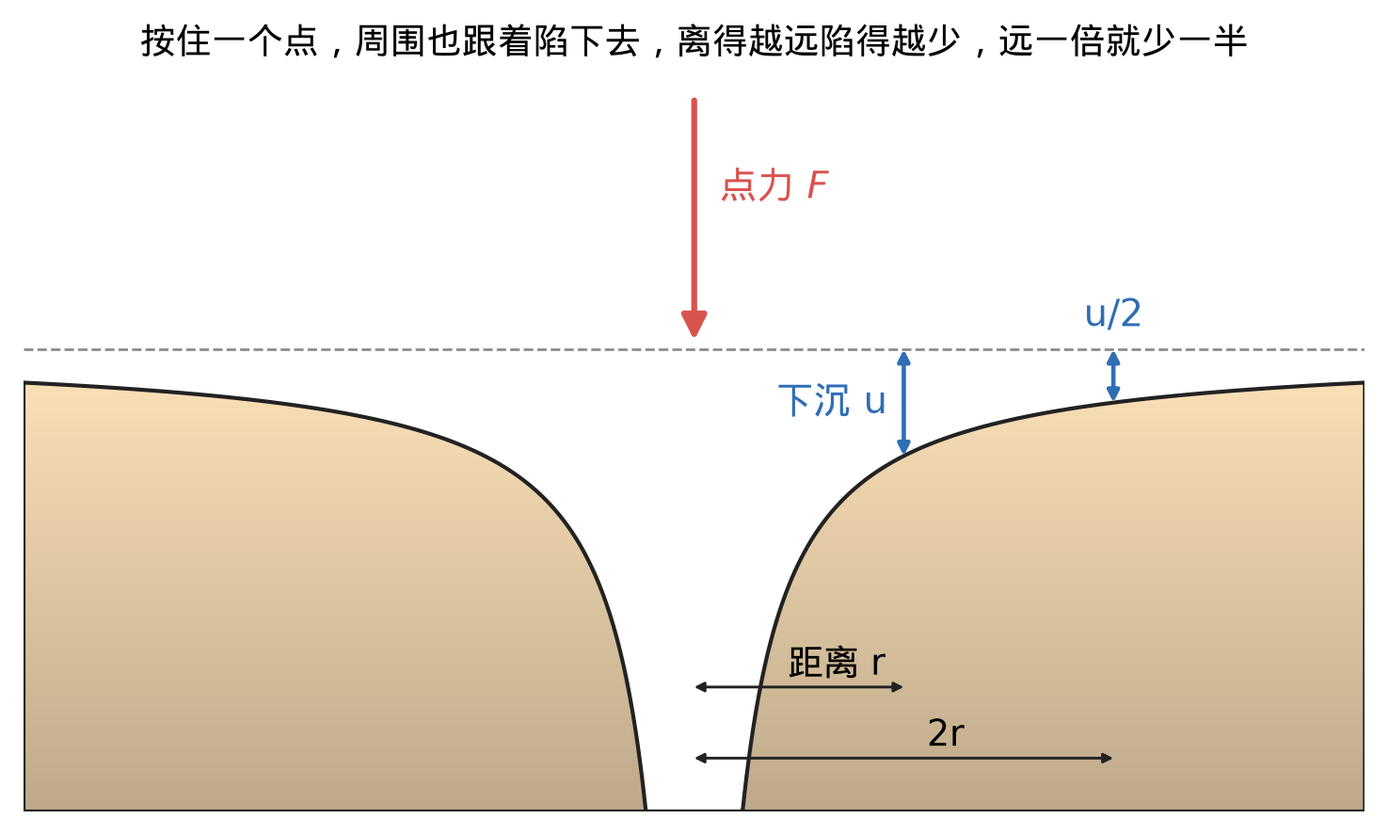
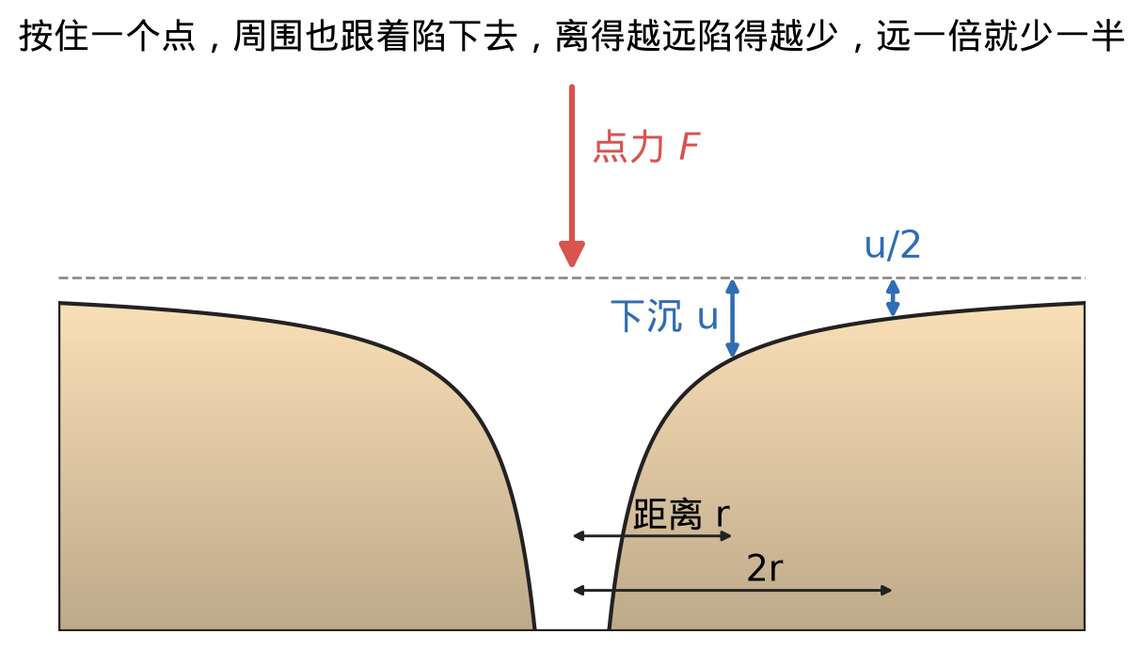
week3_4 2.1-2.3, 3.4: new formula format; concept figures re-rendered with larger text for their display size; fig09 counted as 2 panels

diff --git a/week3_4.html b/week3_4.html
@@ -118,7 +118,24 @@ footer.foot { color: var(--muted); font-size: 0.8rem; border-top: 1px solid var(
 
 <p>先说前提：接触区比物体小得多，在接触处看，两个物体都像无限大的平面（叫半空间）；变形很小；接触面没有摩擦。</p>
 <figure style="margin:12px 0"><img src="assets/images/w34_Contact_sphere-plane.jpg" style="width:599px;max-width:100%;height:auto" alt="这张图展示了弹性球压在弹性平面上时两者怎样变形。F 是把球往下压的力，上方水平虚线是平面原来的表面，弯下去的粗实线是压下去以后的表面，底部那条水平细线只用来量压深，球底部的虚线弧是球没变形时的轮廓，a 是接触半径，d 是压深。通过对比水平虚线和弯下去的粗实线，以及球底的虚实两条弧线，可以看出球和平面都被压扁了一点，而且接触圈以外的平面也被平滑地带着往下沉。" loading="lazy"><figcaption class="small">这张图展示了弹性球压在弹性平面上时两者怎样变形。F 是把球往下压的力，上方水平虚线是平面原来的表面，弯下去的粗实线是压下去以后的表面，底部那条水平细线只用来量压深，球底部的虚线弧是球没变形时的轮廓，a 是接触半径，d 是压深。通过对比水平虚线和弯下去的粗实线，以及球底的虚实两条弧线，可以看出球和平面都被压扁了一点，而且接触圈以外的平面也被平滑地带着往下沉。</figcaption></figure>
-<p><strong>第一步，两侧受同一个压力。</strong> 作用力等于反作用力，接触面上每一点 A 压 B 和 B 压 A 的压力一样大，记为 \(p(\mathbf x)\)。\(\mathbf x\) 是接触面上的位置，\(p\) 是这一点每单位面积受的力。</p>
+<p><b>① 两个软体 = 刚体压软平面</b></p>
+
+<p>已知：两物体的杨氏模量 \(E_A\)、\(E_B\) 与泊松比 \(\nu_A\)、\(\nu_B\)，两表面离切平面弯出的高度 \(f_A\)、\(f_B\)，压深 \(\delta\)；求：接触面上的压力 \(p\) 满足的方程。</p>
+
+<p>\[\begin{cases}\color{#c0392b}{p_{A\to B}(\mathbf x)=p_{B\to A}(\mathbf x)=p(\mathbf x)} &amp; \color{#c0392b}{(1)}\\[4pt] \color{#c0392b}{u_i(\mathbf x)=\dfrac{1}{E_i&#x27;}\cdot\dfrac1\pi\displaystyle\int\frac{p(\mathbf x&#x27;)}{|\mathbf x-\mathbf x&#x27;|}\,d\mathbf x&#x27;} &amp; \color{#c0392b}{(2)}\\[4pt] \color{#c0392b}{E_i&#x27;=\dfrac{E_i}{1-\nu_i^2}} &amp; \color{#c0392b}{(3)}\\[4pt] \color{#c0392b}{u_A+u_B=\delta-h(\mathbf x),\quad h=f_A+f_B} &amp; \color{#c0392b}{(4)}\end{cases}\ \color{#c0392b}{\Longrightarrow\ \frac{1}{E^*}\cdot\frac1\pi\int\frac{p}{|\mathbf x-\mathbf x&#x27;|}=\delta-h,\quad \frac1{E^*}=\frac1{E_A&#x27;}+\frac1{E_B&#x27;}}\]</p>
+<p>式 (1)：作用力等于反作用力，接触面上每一点 A 压 B 和 B 压 A 的压力一样大。</p>
+
+<p>式 (2)：Boussinesq 解，平面受压力时表面下沉；按一张蹦床的一个点，周围一圈都跟着陷下去，离得越近陷得越多，与距离成反比；两侧积分那部分完全一样，区别只在材料系数（Popov、Heß、Willert 2019 手册 §2.2 式 (2.2) 点力解与式 (2.3) 叠加）。</p>
+
+<p>式 (3)：把侧面鼓出也算进去后的有效硬度（同上 §2.2 式 (2.1)）。</p>
+
+<p>式 (4)：贴合条件，不变形时推近 \(\delta\) 后每处会穿进去的量，由两边各自凹下去让出来；缝隙是两边弯出去的高度之和（同上 §2.2 式 (2.4)）。</p>
+
+<p>结果：把 (2)(3) 代入 (4)，两侧的系数合成一个合成模量 \(E^*\)。这个方程和「一个形状为 \(h\) 的刚体，压一块硬度为 \(E^*\) 的平面」完全一样，所以答案只取决于缝隙和合成模量（同上 §2.2 开头）。两侧软度直接相加，就像两根弹簧串起来，总的软度是两根之和；不管哪边软，只要合起来一样软，结果就一样。</p>
+
+<figure style="margin:12px 0"><img src="assets/images/w34_fig03_boussinesq_1_over_r.png" style="width:557px;max-width:100%;height:auto" alt="这张图展示了在表面按一个点时周围陷下去多少。红色箭头是压在表面上的点力 F，灰色虚线是表面原来的位置，橙色块的上边缘是压下去以后的表面。通过对比距离 r 处的蓝色箭头「下沉 u」和距离 2r 处的蓝色箭头 u/2，可以看出下沉与距离成反比，远一倍只沉一半，第 5 节里两个接触区互相影响用的就是这条规律。" loading="lazy"><figcaption class="small">这张图展示了在表面按一个点时周围陷下去多少。红色箭头是压在表面上的点力 F，灰色虚线是表面原来的位置，橙色块的上边缘是压下去以后的表面。通过对比距离 r 处的蓝色箭头「下沉 u」和距离 2r 处的蓝色箭头 u/2，可以看出下沉与距离成反比，远一倍只沉一半，第 5 节里两个接触区互相影响用的就是这条规律。</figcaption></figure>
+<figure style="margin:12px 0"><img src="assets/images/w34_fig02_two_soft_equals_rigid_flat.png" style="width:857px;max-width:100%;height:auto" alt="这张图展示了两个软体相碰可以换成一个刚体压一块软平面。左边橙色软体 A 和绿色软体 B 在灰色虚线（两者的公共切面）处相碰，红色箭头 f_A、f_B 是各自表面离切面弯出去的高度，两个软体的软度分别是 1/E_A′ 和 1/E_B′（E′ 是有效硬度）。右边灰色刚体与橙色软平面之间的红色箭头是缝隙 h。通过对比左边的 f_A、f_B 和右边的 h = f_A + f_B，以及左边两个软度和右边蓝字的 1/E* = 1/E_A′ + 1/E_B′，可以看出缝隙相加、软度也相加，E* 就是两边合起来的硬度，所以只要合起来的缝隙和硬度相同，结果就相同。" loading="lazy"><figcaption class="small">这张图展示了两个软体相碰可以换成一个刚体压一块软平面。左边橙色软体 A 和绿色软体 B 在灰色虚线（两者的公共切面）处相碰，红色箭头 f_A、f_B 是各自表面离切面弯出去的高度，两个软体的软度分别是 1/E_A′ 和 1/E_B′（E′ 是有效硬度）。右边灰色刚体与橙色软平面之间的红色箭头是缝隙 h。通过对比左边的 f_A、f_B 和右边的 h = f_A + f_B，以及左边两个软度和右边蓝字的 1/E* = 1/E_A′ + 1/E_B′，可以看出缝隙相加、软度也相加，E* 就是两边合起来的硬度，所以只要合起来的缝隙和硬度相同，结果就相同。</figcaption></figure>
+<details><summary>推导</summary><p><strong>第一步，两侧受同一个压力。</strong> 作用力等于反作用力，接触面上每一点 A 压 B 和 B 压 A 的压力一样大，记为 \(p(\mathbf x)\)。\(\mathbf x\) 是接触面上的位置，\(p\) 是这一点每单位面积受的力。</p>
 <p><strong>第二步，每一侧陷下去多少由压力决定，而且规则一样。</strong> 弹性力学的 Boussinesq 解给出，平面受压力 \(p\) 时表面下沉</p>
 <p>\[u_i(\mathbf x)=\frac{1}{E_i&#x27;}\cdot\frac1\pi\int\frac{p(\mathbf x&#x27;)}{|\mathbf x-\mathbf x&#x27;|}\,d\mathbf x&#x27;,\qquad E_i&#x27;=\frac{E_i}{1-\nu_i^2}.\]</p>
 <ul>
@@ -130,7 +147,6 @@ footer.foot { color: var(--muted); font-size: 0.8rem; border-top: 1px solid var(
 <li>\(E_i&#x27;\)：把侧面鼓出也算进去后的有效硬度。</li>
 </ul>
 <p>直观理解：积分号里是「每一点的压力，除以它到这里的距离」再加起来。按一张蹦床的一个点，周围一圈都跟着陷下去，离得越近陷得越多，按 \(1/\text{距离}\) 递减。前面的 \(1/E_i&#x27;\) 表示材料越软，陷得越深。两侧积分那部分完全一样，区别只在材料系数。</p>
-<figure style="margin:12px 0"><img src="assets/images/w34_fig03_boussinesq_1_over_r.png" style="width:542px;max-width:100%;height:auto" alt="这张图展示了在表面按一个点时周围陷下去多少。红色箭头是压在表面上的点力 F，灰色虚线是表面原来的位置，橙色块的上边缘是压下去以后的表面。通过对比距离 r 处的蓝色箭头「下沉 u」和距离 2r 处的蓝色箭头 u/2，可以看出下沉与距离成反比，远一倍只沉一半，第 5 节里两个接触区互相影响用的就是这条规律。" loading="lazy"><figcaption class="small">这张图展示了在表面按一个点时周围陷下去多少。红色箭头是压在表面上的点力 F，灰色虚线是表面原来的位置，橙色块的上边缘是压下去以后的表面。通过对比距离 r 处的蓝色箭头「下沉 u」和距离 2r 处的蓝色箭头 u/2，可以看出下沉与距离成反比，远一倍只沉一半，第 5 节里两个接触区互相影响用的就是这条规律。</figcaption></figure>
 <p><strong>第三步，写出贴合条件。</strong></p>
 <p>\[u_A+u_B=\delta-h(\mathbf x),\qquad h=f_A+f_B.\]</p>
 <ul>
@@ -145,12 +161,41 @@ footer.foot { color: var(--muted); font-size: 0.8rem; border-top: 1px solid var(
 <li>\(E^*\)：合成模量，两侧合起来的有效硬度。</li>
 </ul>
 <p>这个方程和「一个形状为 \(h\) 的刚体，压一块硬度为 \(E^*\) 的平面」完全一样。所以答案只取决于缝隙 \(h\) 和合成模量 \(E^*\)。</p>
-<p>直观理解：\(1/E\) 代表「软的程度」，两侧的软度直接相加，就像两根弹簧串起来，总的软度是两根之和。不管哪边软，只要合起来一样软，结果就一样；形状也只看两边加起来的缝隙。</p>
-<figure style="margin:12px 0"><img src="assets/images/w34_fig02_two_soft_equals_rigid_flat.png" style="width:857px;max-width:100%;height:auto" alt="这张图展示了两个软体相碰可以换成一个刚体压一块软平面。左边橙色软体 A 和绿色软体 B 在灰色虚线（两者的公共切面）处相碰，红色箭头 f_A、f_B 是各自表面离切面弯出去的高度，两个软体的软度分别是 1/E_A′ 和 1/E_B′（E′ 是有效硬度）。右边灰色刚体与橙色软平面之间的红色箭头是缝隙 h。通过对比左边的 f_A、f_B 和右边的 h = f_A + f_B，以及左边两个软度和右边蓝字的 1/E* = 1/E_A′ + 1/E_B′，可以看出缝隙相加、软度也相加，E* 就是两边合起来的硬度，所以只要合起来的缝隙和硬度相同，结果就相同。" loading="lazy"><figcaption class="small">这张图展示了两个软体相碰可以换成一个刚体压一块软平面。左边橙色软体 A 和绿色软体 B 在灰色虚线（两者的公共切面）处相碰，红色箭头 f_A、f_B 是各自表面离切面弯出去的高度，两个软体的软度分别是 1/E_A′ 和 1/E_B′（E′ 是有效硬度）。右边灰色刚体与橙色软平面之间的红色箭头是缝隙 h。通过对比左边的 f_A、f_B 和右边的 h = f_A + f_B，以及左边两个软度和右边蓝字的 1/E* = 1/E_A′ + 1/E_B′，可以看出缝隙相加、软度也相加，E* 就是两边合起来的硬度，所以只要合起来的缝隙和硬度相同，结果就相同。</figcaption></figure>
+<p>直观理解：\(1/E\) 代表「软的程度」，两侧的软度直接相加，就像两根弹簧串起来，总的软度是两根之和。不管哪边软，只要合起来一样软，结果就一样；形状也只看两边加起来的缝隙。</p></details>
 <p>这个等价关系（Popov、Heß 和 Willert 2019 年的接触力学手册第 2.2 节）只在线弹性、小变形、两侧都近似半空间（表面坡度远小于 1）、无摩擦时成立。球、椭圆、幂律以及任意轴对称的缝隙都能直接用；平底这类带尖边的压头、接触半径相对曲率半径不够小、物体厚度有限、几个接触区互相影响时，都不能直接用，要另外处理。</p>
 <h3>降维法：三维接触化成一排一维弹簧</h3>
 
-<p>Popov 的降维法证明，轴对称的接触可以精确换成一排互不相干的一维弹簧，压在一条等效轮廓上：</p>
+<p><b>① 一排一维弹簧给出力与能量</b></p>
+
+<p>已知：轴对称缝隙 \(h(r)\)、合成模量 \(E^*\)、压深 \(d\)；求：接触半径 \(a\)、总力 \(F\)、总能量 \(U_0\)。</p>
+
+<p>\[\begin{cases}\color{#c0392b}{g(x)=|x|\displaystyle\int_0^{|x|}\frac{h&#x27;(r)}{\sqrt{x^2-r^2}}\,dr} &amp; \color{#c0392b}{(1)}\\[4pt] \color{#c0392b}{\Delta k=E^*\,\Delta x} &amp; \color{#c0392b}{(2)}\\[4pt] \color{#c0392b}{w(x)=d-g(x)} &amp; \color{#c0392b}{(3)}\\[4pt] \color{#c0392b}{g(a)=d} &amp; \color{#c0392b}{(4)}\\[4pt] \color{#c0392b}{U_{\text{弹簧}}=\tfrac12\,\Delta k\,w^2} &amp; \color{#c0392b}{(5)}\end{cases}\ \color{#c0392b}{\Longrightarrow\ F=E^*\int_{-a}^{a}\big(d-g(x)\big)dx,\quad U_0=\frac{E^*}{2}\int_{-a}^{a}\big(d-g(x)\big)^2dx}\]</p>
+<p>式 (1)：等效轮廓，把三维缝隙形状「变换」成一排弹簧离开平面的高度；三维里各点互相牵连的效果已经被这个变换吸收，弹簧之间互不影响（Popov、Heß、Willert 2019 手册 §2.3.1 式 (2.6)）。</p>
+
+<p>式 (2)：每根弹簧的刚度，越宽越硬，材料越硬越硬（同上 §2.3.1 式 (2.5)）。</p>
+
+<p>式 (3)：第 \(x\) 根弹簧的压缩量 = 压深减去它的高度（同上 §2.3.2 式 (2.8)）。</p>
+
+<p>式 (4)：接触边缘处压缩量为 0，由此定出接触半径（同上 §2.3.2 式 (2.9)）。</p>
+
+<p>式 (5)：每根弹簧的能量是 ½ × 刚度 × 压缩量的平方。</p>
+
+<p>结果：所有弹簧的力相加得总力（同上 §2.3.2 式 (2.11)），能量相加得总能量，与原来的三维问题完全相同。压得越深 → 接触越宽、每根压得越多，力和能量都越大。</p>
+
+<figure style="margin:12px 0"><img src="assets/images/w34_fig04_mdr_springs.png" style="width:908px;max-width:100%;height:auto" alt="这张图展示了降维法怎样把三维接触换成一排一维弹簧。左边灰色刚体压橙色平面，两者之间的缝隙是 h(r)，平面里各点的变形互相牵连。右边把缝隙换成灰色的等效轮廓 g(x) = x²/R（R 是球的半径），压进一排弹簧，灰色虚线是弹簧没压时的顶端，红色箭头是压深 d。通过对比两条红色点线之间被压短的蓝色弹簧和点线外不受力的灰色弹簧，可以看出红色点线的位置就是接触边缘 a，满足 g(a) = d。每根弹簧只管自己那一格，所以三维里各点互相牵连的问题变成了一维的逐根相加。" loading="lazy"><figcaption class="small">这张图展示了降维法怎样把三维接触换成一排一维弹簧。左边灰色刚体压橙色平面，两者之间的缝隙是 h(r)，平面里各点的变形互相牵连。右边把缝隙换成灰色的等效轮廓 g(x) = x²/R（R 是球的半径），压进一排弹簧，灰色虚线是弹簧没压时的顶端，红色箭头是压深 d。通过对比两条红色点线之间被压短的蓝色弹簧和点线外不受力的灰色弹簧，可以看出红色点线的位置就是接触边缘 a，满足 g(a) = d。每根弹簧只管自己那一格，所以三维里各点互相牵连的问题变成了一维的逐根相加。</figcaption></figure>
+<figure style="margin:12px 0"><img src="assets/images/w34_WikipediabilderKap_4.jpg" style="width:1184px;max-width:100%;height:auto" alt="这张图是降维法原作者的示意图。左边是半径 R 的灰色球在力 F 下压进弹性平面，a 是接触半径，d 是压深；箭头右边是换成的一维模型，一个半径 R1 的灰色轮廓在同样的力 F 下压进一排竖直弹簧，R1 = R/2，也就是等效轮廓 g(x) = x²/R。通过对比左右两边标出的 a 和 d，可以看出换成一排各压各的弹簧后，力、接触半径、压深都与三维问题相同，所以能用一维弹簧算三维接触。" loading="lazy"><figcaption class="small">这张图是降维法原作者的示意图。左边是半径 R 的灰色球在力 F 下压进弹性平面，a 是接触半径，d 是压深；箭头右边是换成的一维模型，一个半径 R1 的灰色轮廓在同样的力 F 下压进一排竖直弹簧，R1 = R/2，也就是等效轮廓 g(x) = x²/R。通过对比左右两边标出的 a 和 d，可以看出换成一排各压各的弹簧后，力、接触半径、压深都与三维问题相同，所以能用一维弹簧算三维接触。</figcaption></figure>
+<p><b>② 力是能量的导数，越压越硬</b></p>
+
+<p>已知：① 的总力与总能量；求：能量对压深、力对压深的变化率。</p>
+
+<p>\[\begin{cases}\color{#c0392b}{U_0=\dfrac{E^*}{2}\displaystyle\int_{-a}^{a}\big(d-g\big)^2dx} &amp; \color{#c0392b}{(1)}\\[4pt] \color{#c0392b}{F=E^*\displaystyle\int_{-a}^{a}\big(d-g\big)dx} &amp; \color{#c0392b}{(2)}\\[4pt] \color{#c0392b}{d-g(\pm a)=0} &amp; \color{#c0392b}{(3)}\end{cases}\ \color{#c0392b}{\Longrightarrow\ \frac{dU_0}{dd}=F,\quad \frac{dF}{dd}=2aE^*}\]</p>
+<p>式 (1)(2)：① 的结果。</p>
+
+<p>式 (3)：① 式 (4)，被积函数在积分上下限处为 0。</p>
+
+<p>结果：对压深求导，由 (3) 边界上的项消失。前者说明力就是能量对压深的导数；后者说明压得越深越硬，因为接触区越来越宽，参与受力的弹簧越来越多。</p>
+
+<details><summary>推导</summary><p>Popov 的降维法证明，轴对称的接触可以精确换成一排互不相干的一维弹簧，压在一条等效轮廓上：</p>
 <p>\[g(x)=|x|\int_0^{|x|}\frac{h&#x27;(r)}{\sqrt{x^2-r^2}}\,dr.\]</p>
 <ul>
 <li>\(x\)：这排弹簧所在直线上的坐标，原点在接触中心。</li>
@@ -159,8 +204,6 @@ footer.foot { color: var(--muted); font-size: 0.8rem; border-top: 1px solid var(
 <li>\(g(x)\)：等效轮廓，第 \(x\) 根弹簧离开平面的高度。</li>
 </ul>
 <p>直观理解：三维接触里各点互相牵连，不好算。降维法先把缝隙形状「变换」一下，变成 \(g(x)\)，然后这排一维弹簧就可以各压各的、互不影响，算出的力和能量与原来的三维问题完全相同。牵连的效果已经被这个变换吸收了。</p>
-<figure style="margin:12px 0"><img src="assets/images/w34_fig04_mdr_springs.png" style="width:908px;max-width:100%;height:auto" alt="这张图展示了降维法怎样把三维接触换成一排一维弹簧。左边灰色刚体压橙色平面，两者之间的缝隙是 h(r)，平面里各点的变形互相牵连。右边把缝隙换成灰色的等效轮廓 g(x) = x²/R（R 是球的半径），压进一排弹簧，灰色虚线是弹簧没压时的顶端，红色箭头是压深 d。通过对比两条红色点线之间被压短的蓝色弹簧和点线外不受力的灰色弹簧，可以看出红色点线的位置就是接触边缘 a，满足 g(a) = d。每根弹簧只管自己那一格，所以三维里各点互相牵连的问题变成了一维的逐根相加。" loading="lazy"><figcaption class="small">这张图展示了降维法怎样把三维接触换成一排一维弹簧。左边灰色刚体压橙色平面，两者之间的缝隙是 h(r)，平面里各点的变形互相牵连。右边把缝隙换成灰色的等效轮廓 g(x) = x²/R（R 是球的半径），压进一排弹簧，灰色虚线是弹簧没压时的顶端，红色箭头是压深 d。通过对比两条红色点线之间被压短的蓝色弹簧和点线外不受力的灰色弹簧，可以看出红色点线的位置就是接触边缘 a，满足 g(a) = d。每根弹簧只管自己那一格，所以三维里各点互相牵连的问题变成了一维的逐根相加。</figcaption></figure>
-<figure style="margin:12px 0"><img src="assets/images/w34_WikipediabilderKap_4.jpg" style="width:1184px;max-width:100%;height:auto" alt="这张图是降维法原作者的示意图。左边是半径 R 的灰色球在力 F 下压进弹性平面，a 是接触半径，d 是压深；箭头右边是换成的一维模型，一个半径 R1 的灰色轮廓在同样的力 F 下压进一排竖直弹簧，R1 = R/2，也就是等效轮廓 g(x) = x²/R。通过对比左右两边标出的 a 和 d，可以看出换成一排各压各的弹簧后，力、接触半径、压深都与三维问题相同，所以能用一维弹簧算三维接触。" loading="lazy"><figcaption class="small">这张图是降维法原作者的示意图。左边是半径 R 的灰色球在力 F 下压进弹性平面，a 是接触半径，d 是压深；箭头右边是换成的一维模型，一个半径 R1 的灰色轮廓在同样的力 F 下压进一排竖直弹簧，R1 = R/2，也就是等效轮廓 g(x) = x²/R。通过对比左右两边标出的 a 和 d，可以看出换成一排各压各的弹簧后，力、接触半径、压深都与三维问题相同，所以能用一维弹簧算三维接触。</figcaption></figure>
 <p>每根弹簧宽 \(\Delta x\)、刚度 \(E^*\Delta x\)（越宽越硬，材料越硬越硬）。压深为 \(d\) 时，第 \(x\) 根被压缩 \(d-g(x)\)。压缩量为 0 的地方就是接触边缘，记为 \(a\)，满足 \(g(a)=d\)。总力和总能量是所有弹簧加起来：</p>
 <p>\[F=E^*\int_{-a}^{a}\big(d-g(x)\big)dx,\qquad U_0=\frac{E^*}{2}\int_{-a}^{a}\big(d-g(x)\big)^2dx.\]</p>
 <ul>
@@ -169,18 +212,44 @@ footer.foot { color: var(--muted); font-size: 0.8rem; border-top: 1px solid var(
 <li>\(F\)：总接触力。</li>
 <li>\(U_0\)：总能量，每根弹簧的能量是 \(\tfrac12\times\)刚度\(\times\)压缩量\(^2\)。</li>
 </ul>
-<p>两个推论：对 \(d\) 求导，被积函数在 \(\pm a\) 处正好为 0，边界上的项消失，得到 \(dU_0/dd=F\) 和 \(dF/dd=2aE^*\)。前者说明力就是能量对压深的导数；后者说明压得越深越硬，因为接触区 \(a\) 越来越宽，参与受力的弹簧越来越多。</p>
+<p>两个推论：对 \(d\) 求导，被积函数在 \(\pm a\) 处正好为 0，边界上的项消失，得到 \(dU_0/dd=F\) 和 \(dF/dd=2aE^*\)。前者说明力就是能量对压深的导数；后者说明压得越深越硬，因为接触区 \(a\) 越来越宽，参与受力的弹簧越来越多。</p></details>
 <h3>用它推出 Hertz</h3>
 
-<p>球的缝隙是 \(h=r^2/(2R)\)，\(R\) 是合成半径，\(1/R=1/R_A+1/R_B\)（两边曲率相加，道理和软度相加一样）。代入等效轮廓，\(h&#x27;(r)=r/R\)：</p>
+<p><b>① 球：Hertz 解</b></p>
+
+<p>已知：两球半径 \(R_A\)、\(R_B\)，合成模量 \(E^*\)，压深 \(d\)；求：接触半径 \(a\)、力 \(F\)、能量 \(U_H\)。</p>
+
+<p>\[\begin{cases}\color{#c0392b}{h=\dfrac{r^2}{2R},\quad \dfrac1R=\dfrac1{R_A}+\dfrac1{R_B}} &amp; \color{#c0392b}{(1)}\\[4pt] \color{#c0392b}{g(x)=|x|\displaystyle\int_0^{|x|}\frac{h&#x27;(r)}{\sqrt{x^2-r^2}}\,dr} &amp; \color{#c0392b}{(2)}\\[4pt] \color{#c0392b}{g(a)=d,\quad F=E^*\displaystyle\int_{-a}^{a}\big(d-g\big)dx,\quad \frac{dU}{dd}=F} &amp; \color{#c0392b}{(3)}\end{cases}\ \color{#c0392b}{\Longrightarrow\ g=\frac{x^2}{R},\ a^2=Rd,\ F=\frac43E^*\sqrt R\,d^{3/2},\ U_H=\frac{8}{15}E^*\sqrt R\,d^{5/2}}\]</p>
+<p>式 (1)：球在接触处的缝隙是抛物线，两边曲率相加，道理和软度相加一样（Popov、Heß、Willert 2019 手册 §2.5.3 式 (2.28)）。</p>
+
+<p>式 (2)：降维法的等效轮廓（上一节 ① 式 (1)）。</p>
+
+<p>式 (3)：降维法的接触边缘条件、总力，以及力是能量的导数（上一节 ①②）。</p>
+
+<p>结果：把 (1) 代入 (2) 得等效轮廓，由边缘条件得接触半径，代入总力，再对压深积分得能量（等效轮廓、接触半径与力同手册 §2.5.3 式 (2.29)）。压得越深 → 接触圈越大但只按平方根变大；能量按压深的 2.5 次方涨，因为每处压得更深，接触圈又同时变宽，两件事叠在一起；大球接触圈更宽，所以更「硬」，但只按开方变化。</p>
+
+<p><b>② 幂律形状</b></p>
+
+<p>已知：缝隙按半径的 \(n\) 次方变化，\(c\) 是系数；求：能量随压深的幂次。</p>
+
+<p>\[\begin{cases}\color{#c0392b}{h=c\,r^n} &amp; \color{#c0392b}{(1)}\\[4pt] \color{#c0392b}{g\propto|x|^n,\quad d\propto a^n} &amp; \color{#c0392b}{(2)}\\[4pt] \color{#c0392b}{U_0\propto d^2a} &amp; \color{#c0392b}{(3)}\end{cases}\ \color{#c0392b}{\Longrightarrow\ U_0\propto d^{(2n+1)/n}}\]</p>
+<p>式 (1)：幂律缝隙，\(n\) 越大越平、越小越尖。</p>
+
+<p>式 (2)：代入等效轮廓与边缘条件（上一节 ① 式 (1)(4)）。</p>
+
+<p>式 (3)：上一节 ① 的能量积分，被积函数量级为压深的平方、积分宽度为接触半径。</p>
+
+<p>结果：由 (2) 把接触半径换成压深。球（\(n=2\)）是 2.5 次方，圆锥（\(n=1\)）是 3 次方，平底（\(n\to\infty\)）是 2 次方。压头越尖 → 能量随压深涨得越快，因为接触面积随压深涨得越快。</p>
+
+<figure style="margin:12px 0"><img src="assets/images/w34_fig05_power_law.png" style="width:548px;max-width:100%;height:auto" alt="这张图展示了压头形状怎样决定能量随压深涨得多快。横轴是压深，纵轴是能量，都取对数，所以每条线的斜率就是能量随压深的幂次，右边的小图标画的是对应的压头形状。通过对比红色圆锥线、蓝色球线、绿色平底线的倾斜程度，可以看出圆锥最陡（斜率 3），球居中（2.5），平底最缓（2），因为压头越尖，压深加大时接触面积涨得越快，能量也涨得越快。三条线的高低没有意义，只比斜率。" loading="lazy"><figcaption class="small">这张图展示了压头形状怎样决定能量随压深涨得多快。横轴是压深，纵轴是能量，都取对数，所以每条线的斜率就是能量随压深的幂次，右边的小图标画的是对应的压头形状。通过对比红色圆锥线、蓝色球线、绿色平底线的倾斜程度，可以看出圆锥最陡（斜率 3），球居中（2.5），平底最缓（2），因为压头越尖，压深加大时接触面积涨得越快，能量也涨得越快。三条线的高低没有意义，只比斜率。</figcaption></figure>
+<details><summary>推导</summary><p>球的缝隙是 \(h=r^2/(2R)\)，\(R\) 是合成半径，\(1/R=1/R_A+1/R_B\)（两边曲率相加，道理和软度相加一样）。代入等效轮廓，\(h&#x27;(r)=r/R\)：</p>
 <p>\[g(x)=|x|\int_0^{|x|}\frac{r/R}{\sqrt{x^2-r^2}}dr=\frac{|x|}{R}\Big[-\sqrt{x^2-r^2}\Big]_0^{|x|}=\frac{x^2}{R}.\]</p>
 <p>由 \(g(a)=d\) 得 \(a^2=Rd\)：压得越深，接触圈越大，但只按平方根变大。代入力的公式：</p>
 <p>\[F=E^*\Big(2ad-\frac{2a^3}{3R}\Big)=\frac43E^*\sqrt R\,d^{3/2}.\]</p>
 <p>对 \(d\) 积分得能量：</p>
 <p>\[U_H=\frac{8}{15}E^*\sqrt R\,d^{5/2}.\]</p>
 <p>直观理解：能量按压深的 2.5 次方涨，因为压深加大时，每处压得更深，接触圈又同时变宽，两件事叠在一起。能量和 \(\sqrt R\) 成正比：大球接触圈更宽，所以更「硬」，但只按开方变化。</p>
-<p>换成别的形状，缝隙 \(h=c\,r^n\)（\(c\) 是系数，\(n\) 越大越平、越小越尖），则 \(g\propto|x|^n\)，\(d\propto a^n\)，能量 \(U_0\propto d^2a\propto d^{(2n+1)/n}\)。球（\(n=2\)）是 2.5 次方，圆锥（\(n=1\)）是 3 次方，平底（\(n\to\infty\)）是 2 次方。直观上，压头越尖，接触面积随压深涨得越快，能量也涨得越快。</p>
-<figure style="margin:12px 0"><img src="assets/images/w34_fig05_power_law.png" style="width:542px;max-width:100%;height:auto" alt="这张图展示了压头形状怎样决定能量随压深涨得多快。横轴是压深，纵轴是能量，都取对数，所以每条线的斜率就是能量随压深的幂次，右边的小图标画的是对应的压头形状。通过对比红色圆锥线、蓝色球线、绿色平底线的倾斜程度，可以看出圆锥最陡（斜率 3），球居中（2.5），平底最缓（2），因为压头越尖，压深加大时接触面积涨得越快，能量也涨得越快。三条线的高低没有意义，只比斜率。" loading="lazy"><figcaption class="small">这张图展示了压头形状怎样决定能量随压深涨得多快。横轴是压深，纵轴是能量，都取对数，所以每条线的斜率就是能量随压深的幂次，右边的小图标画的是对应的压头形状。通过对比红色圆锥线、蓝色球线、绿色平底线的倾斜程度，可以看出圆锥最陡（斜率 3），球居中（2.5），平底最缓（2），因为压头越尖，压深加大时接触面积涨得越快，能量也涨得越快。三条线的高低没有意义，只比斜率。</figcaption></figure></section>
+<p>换成别的形状，缝隙 \(h=c\,r^n\)（\(c\) 是系数，\(n\) 越大越平、越小越尖），则 \(g\propto|x|^n\)，\(d\propto a^n\)，能量 \(U_0\propto d^2a\propto d^{(2n+1)/n}\)。球（\(n=2\)）是 2.5 次方，圆锥（\(n=1\)）是 3 次方，平底（\(n\to\infty\)）是 2 次方。直观上，压头越尖，接触面积随压深涨得越快，能量也涨得越快。</p></details></section>
 <section id="w3"><h2>标签对不对</h2>
 <h3>和解析解比</h3>
 
@@ -261,14 +330,34 @@ footer.foot { color: var(--muted); font-size: 0.8rem; border-top: 1px solid var(
 <figure style="margin:12px 0"><img src="assets/images/w34_s3_3_accept.png" style="width:626px;max-width:100%;height:auto" alt="这张图展示了软压头带来的偏差在接触区趋于无限小时消失，三组都回到 1 附近，最多差 0.55%。3.3 节的四组里，压头几乎刚性的那组（1e8 / 1e5）当分母，其余三组都除以它，所以图上只有三条线。蓝、橙、红三组依次是压头稍软、一样软、软压头压硬块（压头和块的模量同上面那张「标签 ÷ Hertz」曲线图），圆点是各压深下「软压头标签 ÷ 近刚压头标签」，最右端低 0.4% 到 3.4%；虚线是对圆点拟合的直线，延长到 Hertz 假设严格成立的 a/R = 0，三颗星落在 0.9989、0.9945、0.9956，都在浅绿色 ±1% 带里，所以按事先定的判据三组都通过。" loading="lazy"><figcaption class="small">这张图展示了软压头带来的偏差在接触区趋于无限小时消失，三组都回到 1 附近，最多差 0.55%。3.3 节的四组里，压头几乎刚性的那组（1e8 / 1e5）当分母，其余三组都除以它，所以图上只有三条线。蓝、橙、红三组依次是压头稍软、一样软、软压头压硬块（压头和块的模量同上面那张「标签 ÷ Hertz」曲线图），圆点是各压深下「软压头标签 ÷ 近刚压头标签」，最右端低 0.4% 到 3.4%；虚线是对圆点拟合的直线，延长到 Hertz 假设严格成立的 a/R = 0，三颗星落在 0.9989、0.9945、0.9956，都在浅绿色 ±1% 带里，所以按事先定的判据三组都通过。</figcaption></figure>
 <h3>网格外推</h3>
 
-<p>有限元把物体切成小单元，单元越小越准。用三档网格算三次，单元尺寸为 \(h,\ h/2,\ h/4\)（这里的 \(h\) 指单元尺寸，不是缝隙），得到 \(U_1,U_2,U_3\)。设误差按 \(Ch^p\) 缩小（\(C\) 是常数，\(p\) 叫收敛阶：网格每细一半，误差缩成 \(1/2^p\)），可以解出</p>
+<p><b>① 外推值（Richardson 外推）</b></p>
+
+<p>已知：单元尺寸为 \(h\)、\(h/2\)、\(h/4\) 三档网格算出的 \(U_1\)、\(U_2\)、\(U_3\)，收敛阶 \(p\)；求：网格无限细时的值 \(U_\infty\)，也就是我们要的标签。</p>
+
+<p>\[\begin{cases}\color{#c0392b}{U(h)=U_\infty+C\,h^p} &amp; \color{#c0392b}{(1)}\\[4pt] \color{#c0392b}{U_2=U_\infty+C\,(h/2)^p} &amp; \color{#c0392b}{(2)}\\[4pt] \color{#c0392b}{U_3=U_\infty+C\,(h/4)^p} &amp; \color{#c0392b}{(3)}\end{cases}\ \color{#c0392b}{\Longrightarrow\ U_\infty=U_3+\frac{U_3-U_2}{2^p-1}}\]</p>
+<p>式 (1)：误差模型，用尺寸 \(h\) 的单元算出的值等于真值加一项误差（这里的 \(h\) 指单元尺寸，不是缝隙）。单元越小 → 误差越小，因为离散越细越接近连续问题；\(p\) 越大 → 误差缩得越快，网格每细一半，误差缩成原来的 \(2^p\) 分之一。</p>
+
+<p>式 (2)(3)：中、细两档的读数，真值相同，中档的误差是细档的 \(2^p\) 倍。</p>
+
+<p>结果：(2)(3) 相减消去未知的 \(C\)，再代回 (3)。从细档读数出发，再顺着「中 → 细」的方向多走一步就到真值；两档差得越多 → 细档离真值越远，要多走越多。</p>
+
+<p><b>② 收敛阶 \(p\)</b></p>
+
+<p>已知：三档读数 \(U_1\)、\(U_2\)、\(U_3\)，相邻两档尺寸比 2；求：收敛阶 \(p\)。</p>
+
+<p>\[\begin{cases}\color{#c0392b}{U_1-U_2=C\,(h/2)^p\,(2^p-1)} &amp; \color{#c0392b}{(1)}\\[4pt] \color{#c0392b}{U_2-U_3=C\,(h/4)^p\,(2^p-1)} &amp; \color{#c0392b}{(2)}\end{cases}\ \color{#c0392b}{\Longrightarrow\ p=\log_2\frac{U_1-U_2}{U_2-U_3}}\]</p>
+<p>式 (1)(2)：① 式 (1) 用在粗–中、中–细相邻两档上，每对之差只剩误差之差。</p>
+
+<p>结果：(1) 除以 (2) 得两档差之比为 \(2^p\)，取以 2 为底的对数。看相邻两档之间的变化每加细一次缩小多少倍，就知道误差按几次方收敛。\(p\) 是两个很小的差相除得到的，分子分母稍有噪声就乱跳，所以同一组实验所有压深共用一个 \(p\)（取各压深的中位数）。</p>
+
+<details><summary>推导</summary><p>有限元把物体切成小单元，单元越小越准。用三档网格算三次，单元尺寸为 \(h,\ h/2,\ h/4\)（这里的 \(h\) 指单元尺寸，不是缝隙），得到 \(U_1,U_2,U_3\)。设误差按 \(Ch^p\) 缩小（\(C\) 是常数，\(p\) 叫收敛阶：网格每细一半，误差缩成 \(1/2^p\)），可以解出</p>
 <p>\[p=\log_2\frac{U_1-U_2}{U_2-U_3},\qquad U_\infty=U_3+\frac{U_3-U_2}{2^p-1}.\]</p>
 <ul>
 <li>\(U_\infty\)：推到网格无限细时的值，也就是我们要的标签。</li>
 </ul>
-<p>直观理解：看相邻两档之间的变化，每加细一次变化缩小多少倍，就知道误差在以什么速度收敛，从而推出极限。问题在于 \(p\) 是两个很小的差相除得到的，分子分母稍有噪声，\(p\) 就乱跳。原来每个压深各算一个 \(p\)，在 0.88 到 1.45 之间跳，给标签带进了约 0.5% 的假起伏。现在改成同一组实验所有压深共用一个 \(p\)（取各压深的中位数），标签就平稳了。</p>
+<p>直观理解：看相邻两档之间的变化，每加细一次变化缩小多少倍，就知道误差在以什么速度收敛，从而推出极限。问题在于 \(p\) 是两个很小的差相除得到的，分子分母稍有噪声，\(p\) 就乱跳。原来每个压深各算一个 \(p\)，在 0.88 到 1.45 之间跳，给标签带进了约 0.5% 的假起伏。现在改成同一组实验所有压深共用一个 \(p\)（取各压深的中位数），标签就平稳了。</p></details>
 <figure style="margin:12px 0"><img src="assets/images/w34_fig06a_mesh_extrapolation.png" style="width:549px;max-width:100%;height:auto" alt="这张图展示了网格外推的做法。横轴是有限元单元的尺寸，纵轴是算出的能量，三个黑点是单元尺寸为 h、h/2、h/4 时的结果。通过对比三个黑点和沿灰色虚线延伸到横轴 0 处的蓝色五角星，可以看出网格每细一半，算出的能量下降一截，降幅越来越小，所以顺着这个趋势能推出单元无限小时的值，标签用的就是这个值。" loading="lazy"><figcaption class="small">这张图展示了网格外推的做法。横轴是有限元单元的尺寸，纵轴是算出的能量，三个黑点是单元尺寸为 h、h/2、h/4 时的结果。通过对比三个黑点和沿灰色虚线延伸到横轴 0 处的蓝色五角星，可以看出网格每细一半，算出的能量下降一截，降幅越来越小，所以顺着这个趋势能推出单元无限小时的值，标签用的就是这个值。</figcaption></figure>
-<figure style="margin:12px 0"><img src="assets/images/w34_fig06b_order_jumps.png" style="width:517px;max-width:100%;height:auto" alt="这张图展示了收敛阶 p 的取法怎样影响标签。收敛阶 p 表示网格每细一半误差缩小多少，横轴是压深，纵轴是外推出的标签，这里画的是四组实验中压头几乎刚性的那一组的 5 个压深。红色折线是每个压深用自己算的 p 外推，各点旁标着它的 p（0.90、1.15、0.89、1.34、1.21），蓝色折线是四组共用 p = 1.135，这个数是全部四组 20 个压深各自阶的中位数。通过对比红线的上下锯齿和蓝线的平滑上升，再用左边 1% 的黑色比例尺量，可以看出 p 一跳，标签就跟着跳，这一组的跳动幅度接近 1%，四组共用一个 p 以后这种假起伏消失了。" loading="lazy"><figcaption class="small">这张图展示了收敛阶 p 的取法怎样影响标签。收敛阶 p 表示网格每细一半误差缩小多少，横轴是压深，纵轴是外推出的标签，这里画的是四组实验中压头几乎刚性的那一组的 5 个压深。红色折线是每个压深用自己算的 p 外推，各点旁标着它的 p（0.90、1.15、0.89、1.34、1.21），蓝色折线是四组共用 p = 1.135，这个数是全部四组 20 个压深各自阶的中位数。通过对比红线的上下锯齿和蓝线的平滑上升，再用左边 1% 的黑色比例尺量，可以看出 p 一跳，标签就跟着跳，这一组的跳动幅度接近 1%，四组共用一个 p 以后这种假起伏消失了。</figcaption></figure>
+<figure style="margin:12px 0"><img src="assets/images/w34_fig06b_order_jumps.png" style="width:516px;max-width:100%;height:auto" alt="这张图展示了收敛阶 p 的取法怎样影响标签。收敛阶 p 表示网格每细一半误差缩小多少，横轴是压深，纵轴是外推出的标签，这里画的是四组实验中压头几乎刚性的那一组的 5 个压深。红色折线是每个压深用自己算的 p 外推，各点旁标着它的 p（0.90、1.15、0.89、1.34、1.21），蓝色折线是四组共用 p = 1.135，这个数是全部四组 20 个压深各自阶的中位数。通过对比红线的上下锯齿和蓝线的平滑上升，再用左边 1% 的黑色比例尺量，可以看出 p 一跳，标签就跟着跳，这一组的跳动幅度接近 1%，四组共用一个 p 以后这种假起伏消失了。" loading="lazy"><figcaption class="small">这张图展示了收敛阶 p 的取法怎样影响标签。收敛阶 p 表示网格每细一半误差缩小多少，横轴是压深，纵轴是外推出的标签，这里画的是四组实验中压头几乎刚性的那一组的 5 个压深。红色折线是每个压深用自己算的 p 外推，各点旁标着它的 p（0.90、1.15、0.89、1.34、1.21），蓝色折线是四组共用 p = 1.135，这个数是全部四组 20 个压深各自阶的中位数。通过对比红线的上下锯齿和蓝线的平滑上升，再用左边 1% 的黑色比例尺量，可以看出 p 一跳，标签就跟着跳，这一组的跳动幅度接近 1%，四组共用一个 p 以后这种假起伏消失了。</figcaption></figure>
 <figure style="margin:12px 0"><img src="assets/images/w34_label_one_run_scene.png" style="width:888px;max-width:100%;height:auto" alt="这张图是 3.4 节那张标签表对应的那次仿真压到最深一档时的样子。左边是过接触中心的剖面，灰色是半径 1 的刚球，蓝色是软块（杨氏模量 1e5），竖直方向放大 4 倍；右边是从正上方看块的顶面，灰点是块表面的网格点，红点是离球面不到 0.0005 的点，粉色是红点围出的接触区。这一档设定压深 0.024，块实际被压下 0.0232，存下的弹性能 5.06，就是表里最后一行。" loading="lazy"><figcaption class="small">这张图是 3.4 节那张标签表对应的那次仿真压到最深一档时的样子。左边是过接触中心的剖面，灰色是半径 1 的刚球，蓝色是软块（杨氏模量 1e5），竖直方向放大 4 倍；右边是从正上方看块的顶面，灰点是块表面的网格点，红点是离球面不到 0.0005 的点，粉色是红点围出的接触区。这一档设定压深 0.024，块实际被压下 0.0232，存下的弹性能 5.06，就是表里最后一行。</figcaption></figure>
 <figure style="margin:12px 0"><img src="assets/images/w34_label_one_run.png" style="width:623px;max-width:100%;height:auto" alt="这张图展示了一次仿真运行存下来的原始数据。这次运行是半径 1 的刚球压软块（E = 1e5、ν = 0.3），间隙 0.000125，设定压深从 0.004 到 0.024 共 6 档，每档记一行，依次是设定压深、块表面实际被压下的深度、块的弹性能，以及弹性能除以同一实际压深下的 Hertz 能量。最后一列的 1.05 到 1.12 还带着数值误差，要经过下面那张图里的三步外推才成为训练用的标签，0.009 那一行的 1.0659 就是下面那张图的第三个灰点。这组仿真的场景见 8.1 节的视频，视频是同样的球和块用较粗网格另跑的一次。" loading="lazy"><figcaption class="small">这张图展示了一次仿真运行存下来的原始数据。这次运行是半径 1 的刚球压软块（E = 1e5、ν = 0.3），间隙 0.000125，设定压深从 0.004 到 0.024 共 6 档，每档记一行，依次是设定压深、块表面实际被压下的深度、块的弹性能，以及弹性能除以同一实际压深下的 Hertz 能量。最后一列的 1.05 到 1.12 还带着数值误差，要经过下面那张图里的三步外推才成为训练用的标签，0.009 那一行的 1.0659 就是下面那张图的第三个灰点。这组仿真的场景见 8.1 节的视频，视频是同样的球和块用较粗网格另跑的一次。</figcaption></figure>
 <figure style="margin:12px 0"><img src="assets/images/w34_s3_4_chain.png" style="width:544px;max-width:100%;height:auto" alt="这张图展示了一个标签如何从仿真原始读数逐步外推出来，例子是半径 1 的刚球压软块（E = 1e5、ν = 0.3）、设定压深 0.009。纵轴是能量除以 Hertz 能量，绿色虚线是 1；左边三个灰点是同一网格下间隙取 0.0005、0.00025、0.000125 三档的原始读数，间隙越小读数越低，最大的是最左边的 1.1626；把间隙外推到 0、再把块外推到无限大（仿真里的块有限大，解析解假设块无限大），得到两个蓝点，最后把网格外推到无限细，得到最右边的绿点 1.0058，即最终标签。每一步去掉一种数值误差，所以最终标签只比 Hertz 高 0.6%。这组仿真的场景（刚球压平块）见 8.1 节的视频，视频是同样的球和块用较粗网格另跑的一次。" loading="lazy"><figcaption class="small">这张图展示了一个标签如何从仿真原始读数逐步外推出来，例子是半径 1 的刚球压软块（E = 1e5、ν = 0.3）、设定压深 0.009。纵轴是能量除以 Hertz 能量，绿色虚线是 1；左边三个灰点是同一网格下间隙取 0.0005、0.00025、0.000125 三档的原始读数，间隙越小读数越低，最大的是最左边的 1.1626；把间隙外推到 0、再把块外推到无限大（仿真里的块有限大，解析解假设块无限大），得到两个蓝点，最后把网格外推到无限细，得到最右边的绿点 1.0058，即最终标签。每一步去掉一种数值误差，所以最终标签只比 Hertz 高 0.6%。这组仿真的场景（刚球压平块）见 8.1 节的视频，视频是同样的球和块用较粗网格另跑的一次。</figcaption></figure>
@@ -400,7 +489,7 @@ footer.foot { color: var(--muted); font-size: 0.8rem; border-top: 1px solid var(
 <figure style="margin:12px 0"><video controls muted playsinline preload="metadata" src="assets/videos/w3i_hydro_rigid_rigid.mp4" style="width:560px;max-width:100%;height:auto"></video><figcaption class="small">这段视频展示两个都带压力场的刚体之间的 hydro 接触：深灰刚球（半径 0.05 m、1 kg）靠自重停在固定的浅灰刚体盒上。竖直方向放大 4 倍，红色是两者重叠的部分。看第 0 到 0.4 秒球沉下去，之后停在压深 3.04 mm。换成半径 0.2 m 的球（另一次运行）压深是 2.16 mm，两者之比 1.41，而 Hertz 给 1.59。</figcaption></figure></section>
 <section id="w5"><h2>网络结构</h2>
 <p>总能量 = 每个接触区各自的能量 + 接触区之间的相互影响。</p>
-<figure style="margin:12px 0"><img src="assets/images/w34_fig09_network_diagram.png" style="width:582px;max-width:100%;height:auto" alt="这张图展示了网络的结构。左边灰框是每个接触区的输入：两表面之间的缝隙，以及两侧各自的形状和材料。中间蓝色的「骨架（公式）」框用降维法或椭圆 Hertz 公式（椭圆 Hertz 见 8.2 节）算出主体能量，它下方橙色的「小网络」框只微调等效轮廓和合成硬度，两者合起来给出右边绿色框里各接触区的能量。通过对比两个接触区各自的流程和它们之间的红色双向箭头，可以看出接触区之间按下沉与距离成反比的规律互相影响，最后合成总能量，所以网络要学的东西很少。小网络修正后的等效轮廓仍随离中心的距离单调增加，所以「力等于能量对压深的导数」和「压得越深越硬」这两条性质照样成立。" loading="lazy"><figcaption class="small">这张图展示了网络的结构。左边灰框是每个接触区的输入：两表面之间的缝隙，以及两侧各自的形状和材料。中间蓝色的「骨架（公式）」框用降维法或椭圆 Hertz 公式（椭圆 Hertz 见 8.2 节）算出主体能量，它下方橙色的「小网络」框只微调等效轮廓和合成硬度，两者合起来给出右边绿色框里各接触区的能量。通过对比两个接触区各自的流程和它们之间的红色双向箭头，可以看出接触区之间按下沉与距离成反比的规律互相影响，最后合成总能量，所以网络要学的东西很少。小网络修正后的等效轮廓仍随离中心的距离单调增加，所以「力等于能量对压深的导数」和「压得越深越硬」这两条性质照样成立。</figcaption></figure>
+<figure style="margin:12px 0"><img src="assets/images/w34_fig09_network_diagram.png" style="width:807px;max-width:100%;height:auto" alt="这张图展示了网络的结构。左边灰框是每个接触区的输入：两表面之间的缝隙，以及两侧各自的形状和材料。中间蓝色的「骨架（公式）」框用降维法或椭圆 Hertz 公式（椭圆 Hertz 见 8.2 节）算出主体能量，它下方橙色的「小网络」框只微调等效轮廓和合成硬度，两者合起来给出右边绿色框里各接触区的能量。通过对比两个接触区各自的流程和它们之间的红色双向箭头，可以看出接触区之间按下沉与距离成反比的规律互相影响，最后合成总能量，所以网络要学的东西很少。小网络修正后的等效轮廓仍随离中心的距离单调增加，所以「力等于能量对压深的导数」和「压得越深越硬」这两条性质照样成立。" loading="lazy"><figcaption class="small">这张图展示了网络的结构。左边灰框是每个接触区的输入：两表面之间的缝隙，以及两侧各自的形状和材料。中间蓝色的「骨架（公式）」框用降维法或椭圆 Hertz 公式（椭圆 Hertz 见 8.2 节）算出主体能量，它下方橙色的「小网络」框只微调等效轮廓和合成硬度，两者合起来给出右边绿色框里各接触区的能量。通过对比两个接触区各自的流程和它们之间的红色双向箭头，可以看出接触区之间按下沉与距离成反比的规律互相影响，最后合成总能量，所以网络要学的东西很少。小网络修正后的等效轮廓仍随离中心的距离单调增加，所以「力等于能量对压深的导数」和「压得越深越硬」这两条性质照样成立。</figcaption></figure>
 <h3>单个接触区</h3>
 
 <p>输入是这个接触区两表面之间的缝隙 \(h\)，以及两侧各自的形状和材料。主体能量直接用 2.2 节的 \(U_0\) 算。网络（约 500 个参数）只输出两样小修正：对等效轮廓 \(g\) 的修正，以及（可选的，约 40 个参数）对合成模量 \(E^*\) 的修正，用来补上 3.3 节那种 \(a/R\) 不够小、变形不够小造成的偏差。修正后的等效轮廓仍然随 \(|x|\) 单调增加，所以 2.2 节的两个推论照样成立：力等于能量对压深的导数，并且压得越深越硬。</p>
@@ -553,7 +642,7 @@ footer.foot { color: var(--muted); font-size: 0.8rem; border-top: 1px solid var(
 <li><strong>球面的离散没有外推。</strong> 球冠表面是用三角形拼出来的，拼得越细越接近真球面。3.4 节外推的是块的网格，球面本身的细分档没有外推。两个半径用的细分档不同，\(R=1\) 因此偏低约 0.11% 到 0.39%，\(R=2\) 偏低约 0.05% 到 0.16%（压深越大偏得越少）。</li>
 <li><strong>压深的定义漏了间隙。</strong> IPC 为了保证不穿透，会让两个表面之间始终保持一层极薄的间隙（不超过 \(\hat d\)），标签最后要把它外推到 \(\hat d\to0\)。算「标签 ÷ Hertz」时，分母里用的压深没有把这层间隙加进去，导致这个比值随 \(\hat d\) 的变化不是直线，按直线外推就有偏差。</li>
 </ol>
-<figure style="margin:12px 0"><img src="assets/images/w34_fig11b_facet_sagitta.png" style="width:689px;max-width:100%;height:auto" alt="这张图展示了三角面拼出的球为什么让能量偏低。蓝色弧线是真球面，红色折线是用平的三角面拼出来的球面，红点是三角面的顶点，都落在真球面上。通过对比蓝色弧线和红色折线，以及最下面那块平面中点到弧线之间标着「缩进去 ε」的小箭头，可以看出每块平面都比真球面往里缩了一点，压头实际压进去的量变少，所以算出的能量偏低。三角面拼得越粗，ε 越大，能量偏得越多。" loading="lazy"><figcaption class="small">这张图展示了三角面拼出的球为什么让能量偏低。蓝色弧线是真球面，红色折线是用平的三角面拼出来的球面，红点是三角面的顶点，都落在真球面上。通过对比蓝色弧线和红色折线，以及最下面那块平面中点到弧线之间标着「缩进去 ε」的小箭头，可以看出每块平面都比真球面往里缩了一点，压头实际压进去的量变少，所以算出的能量偏低。三角面拼得越粗，ε 越大，能量偏得越多。</figcaption></figure>
+<figure style="margin:12px 0"><img src="assets/images/w34_fig11b_facet_sagitta.png" style="width:669px;max-width:100%;height:auto" alt="这张图展示了三角面拼出的球为什么让能量偏低。蓝色弧线是真球面，红色折线是用平的三角面拼出来的球面，红点是三角面的顶点，都落在真球面上。通过对比蓝色弧线和红色折线，以及最下面那块平面中点到弧线之间标着「缩进去 ε」的小箭头，可以看出每块平面都比真球面往里缩了一点，压头实际压进去的量变少，所以算出的能量偏低。三角面拼得越粗，ε 越大，能量偏得越多。" loading="lazy"><figcaption class="small">这张图展示了三角面拼出的球为什么让能量偏低。蓝色弧线是真球面，红色折线是用平的三角面拼出来的球面，红点是三角面的顶点，都落在真球面上。通过对比蓝色弧线和红色折线，以及最下面那块平面中点到弧线之间标着「缩进去 ε」的小箭头，可以看出每块平面都比真球面往里缩了一点，压头实际压进去的量变少，所以算出的能量偏低。三角面拼得越粗，ε 越大，能量偏得越多。</figcaption></figure>
 <figure style="margin:12px 0"><img src="assets/images/w34_s8_4_facets.png" style="width:595px;max-width:100%;height:auto" alt="这张图展示了只换球面三角形的细分档，标签就变 0.07% 到 0.5%。球面由三角形拼成，三角形越细越接近真球面；蓝线是 R=1 把三角形加细，标签升高 0.07% 到 0.25%，红线是 R=2 把三角形变粗，标签降低 0.16% 到 0.50%，灰色横线是不变，两条线都是压深越浅离它越远。两个半径用的细分档不同，所以这一项直接进了上面那张相似律图里的差。图里是两档细分互换后实测的变化；正文的 R=1 偏低 0.11%–0.39%、R=2 偏低 0.05%–0.16%，是由这组实测推算的各自细分档相对真球面的偏低量，不是同一个量。" loading="lazy"><figcaption class="small">这张图展示了只换球面三角形的细分档，标签就变 0.07% 到 0.5%。球面由三角形拼成，三角形越细越接近真球面；蓝线是 R=1 把三角形加细，标签升高 0.07% 到 0.25%，红线是 R=2 把三角形变粗，标签降低 0.16% 到 0.50%，灰色横线是不变，两条线都是压深越浅离它越远。两个半径用的细分档不同，所以这一项直接进了上面那张相似律图里的差。图里是两档细分互换后实测的变化；正文的 R=1 偏低 0.11%–0.39%、R=2 偏低 0.05%–0.16%，是由这组实测推算的各自细分档相对真球面的偏低量，不是同一个量。</figcaption></figure>
 <p>两项都修正后，两个半径的差从 0.97% / 0.75% 降到 0.12% / 0.44%（\(\delta/R=0.004\) / 0.006），还剩约 0.4% 没解释。球面这一项是用诊断运行实测的量重算的，细网格上的球面效应还在测。</p>
 <figure style="margin:12px 0"><img src="assets/images/w34_s8_4_corrected.png" style="width:607px;max-width:100%;height:auto" alt="这张图展示了修掉球面离散和间隙两项后，两个半径之间的差明显变小。灰柱是标签原样时 R=2 比 R=1 高出的量，δ/R = 0.004 和 0.006 处分别是 0.971% 和 0.745%；蓝柱是两项都修正后的结果，降到 0.116% 和 0.437%。所以 0.004 处的差基本解释完，0.006 处还剩约 0.4% 没有解释。" loading="lazy"><figcaption class="small">这张图展示了修掉球面离散和间隙两项后，两个半径之间的差明显变小。灰柱是标签原样时 R=2 比 R=1 高出的量，δ/R = 0.004 和 0.006 处分别是 0.971% 和 0.745%；蓝柱是两项都修正后的结果，降到 0.116% 和 0.437%。所以 0.004 处的差基本解释完，0.006 处还剩约 0.4% 没有解释。</figcaption></figure></section>

diff --git a/week2.html b/week2.html
@@ -469,7 +469,7 @@ footer.foot { color: var(--muted); font-size: 0.8rem; border-top: 1px solid var(
 
 <figure style="margin:12px 0"><img src="assets/images/hz03_pressure_profile.png" style="width:559px;max-width:100%;height:auto" alt="横轴是离接触中心的距离 t，纵轴是那一点的压强。蓝色曲线 p(t) = p₀√(1 − t²/a²) 是半个椭圆：中心 t = 0 最大，等于 p₀（蓝点）；往外逐渐减小，到接触边缘 t = ±a（红色刻度）正好降到 0；圈外不受压。" loading="lazy"><figcaption class="small">横轴是离接触中心的距离 t，纵轴是那一点的压强。蓝色曲线 p(t) = p₀√(1 − t²/a²) 是半个椭圆：中心 t = 0 最大，等于 p₀（蓝点）；往外逐渐减小，到接触边缘 t = ±a（红色刻度）正好降到 0；圈外不受压。</figcaption></figure>
 <figure style="margin:12px 0"><img src="assets/images/hertz_contact.png" style="width:587px;max-width:100%;height:auto" alt="核心式在图上的样子：刚球（红线）压进垫子，粉色带是真实接触区 \(|r|\le a=\sqrt{R\delta}\)，带边缘垫子已下陷 \(\delta/2\)；灰色点线是几何重叠的边缘 \(\sqrt{2R\delta}\)。各标注的含义见本节开头这张图的图注。" loading="lazy"><figcaption class="small">核心式在图上的样子：刚球（红线）压进垫子，粉色带是真实接触区 \(|r|\le a=\sqrt{R\delta}\)，带边缘垫子已下陷 \(\delta/2\)；灰色点线是几何重叠的边缘 \(\sqrt{2R\delta}\)。各标注的含义见本节开头这张图的图注。</figcaption></figure>
-<figure style="margin:12px 0"><img src="assets/images/fig03_boussinesq_1_over_r.png" style="width:542px;max-width:100%;height:auto" alt="这张图说明 Boussinesq 点力解的核心：在弹性半空间表面按住一个点，周围一圈都跟着陷下去，离得越远陷得越少。红色箭头是作用在一点上的点力 \(F\)；米色是半空间，上方灰色虚线是它原来的表面。距离 \(r\) 处表面下沉 \(u\)（蓝色标注），到距离 \(2r\) 处只下沉 \(u/2\)：下沉和距离成反比，正对应 \(u=P/(\pi E^*s)\) 里的 \(1/s\)。" loading="lazy"><figcaption class="small">这张图说明 Boussinesq 点力解的核心：在弹性半空间表面按住一个点，周围一圈都跟着陷下去，离得越远陷得越少。红色箭头是作用在一点上的点力 \(F\)；米色是半空间，上方灰色虚线是它原来的表面。距离 \(r\) 处表面下沉 \(u\)（蓝色标注），到距离 \(2r\) 处只下沉 \(u/2\)：下沉和距离成反比，正对应 \(u=P/(\pi E^*s)\) 里的 \(1/s\)。</figcaption></figure>
+<figure style="margin:12px 0"><img src="assets/images/fig03_boussinesq_1_over_r.png" style="width:557px;max-width:100%;height:auto" alt="这张图说明 Boussinesq 点力解的核心：在弹性半空间表面按住一个点，周围一圈都跟着陷下去，离得越远陷得越少。红色箭头是作用在一点上的点力 \(F\)；米色是半空间，上方灰色虚线是它原来的表面。距离 \(r\) 处表面下沉 \(u\)（蓝色标注），到距离 \(2r\) 处只下沉 \(u/2\)：下沉和距离成反比，正对应 \(u=P/(\pi E^*s)\) 里的 \(1/s\)。" loading="lazy"><figcaption class="small">这张图说明 Boussinesq 点力解的核心：在弹性半空间表面按住一个点，周围一圈都跟着陷下去，离得越远陷得越少。红色箭头是作用在一点上的点力 \(F\)；米色是半空间，上方灰色虚线是它原来的表面。距离 \(r\) 处表面下沉 \(u\)（蓝色标注），到距离 \(2r\) 处只下沉 \(u/2\)：下沉和距离成反比，正对应 \(u=P/(\pi E^*s)\) 里的 \(1/s\)。</figcaption></figure>
 <details><summary>推导</summary><ul>
 <li>
 <p>Hertz：接触区内同一块表面的下沉量有两种描述，必须相等</p>
@@ -564,7 +564,7 @@ footer.foot { color: var(--muted); font-size: 0.8rem; border-top: 1px solid var(
 <p>结果：把 (2) 代入 (1) 积分。压深越大 → 能量越大，而且比力再多涨一次方（2.5 次方），因为每多压一点，都是在已经很大的力上再做功；在对数坐标里是一条斜率 2.5 的直线，压头越尖斜率越大（下面第二张图）。</p>
 
 <figure style="margin:12px 0"><img src="assets/images/hz05_energy_area.png" style="width:536px;max-width:100%;height:auto" alt="黑色曲线是合力随压深的变化 F = (4/3)E*R^{1/2}δ^{3/2}。从 0 压到 δ₁ 的过程中，每多压 dδ，力做功 F·dδ，就是曲线下一条细竖条的面积；全部竖条加起来，就是蓝色面积，也就是压到 δ₁ 时存进去的弹性能 U = (8/15)E*R^{1/2}δ^{5/2}。指数从 3/2 积分变成 5/2，能量随压深涨得比力更快。" loading="lazy"><figcaption class="small">黑色曲线是合力随压深的变化 F = (4/3)E*R^{1/2}δ^{3/2}。从 0 压到 δ₁ 的过程中，每多压 dδ，力做功 F·dδ，就是曲线下一条细竖条的面积；全部竖条加起来，就是蓝色面积，也就是压到 δ₁ 时存进去的弹性能 U = (8/15)E*R^{1/2}δ^{5/2}。指数从 3/2 积分变成 5/2，能量随压深涨得比力更快。</figcaption></figure>
-<figure style="margin:12px 0"><img src="assets/images/fig05_power_law.png" style="width:542px;max-width:100%;height:auto" alt="这张图说明能量随压深涨多快由压头形状决定。横轴是压深、纵轴是能量，都取对数，所以按幂次涨的能量画出来是直线，斜率就是幂次。蓝线是球（斜率 2.5，就是这里的 \(U\propto\delta^{5/2}\)），红线是圆锥（斜率 3），绿线是平底（斜率 2）；右上角的小图标是三种压头的样子。压头越尖，接触面积随压深涨得越快，直线越陡。" loading="lazy"><figcaption class="small">这张图说明能量随压深涨多快由压头形状决定。横轴是压深、纵轴是能量，都取对数，所以按幂次涨的能量画出来是直线，斜率就是幂次。蓝线是球（斜率 2.5，就是这里的 \(U\propto\delta^{5/2}\)），红线是圆锥（斜率 3），绿线是平底（斜率 2）；右上角的小图标是三种压头的样子。压头越尖，接触面积随压深涨得越快，直线越陡。</figcaption></figure>
+<figure style="margin:12px 0"><img src="assets/images/fig05_power_law.png" style="width:548px;max-width:100%;height:auto" alt="这张图说明能量随压深涨多快由压头形状决定。横轴是压深、纵轴是能量，都取对数，所以按幂次涨的能量画出来是直线，斜率就是幂次。蓝线是球（斜率 2.5，就是这里的 \(U\propto\delta^{5/2}\)），红线是圆锥（斜率 3），绿线是平底（斜率 2）；右上角的小图标是三种压头的样子。压头越尖，接触面积随压深涨得越快，直线越陡。" loading="lazy"><figcaption class="small">这张图说明能量随压深涨多快由压头形状决定。横轴是压深、纵轴是能量，都取对数，所以按幂次涨的能量画出来是直线，斜率就是幂次。蓝线是球（斜率 2.5，就是这里的 \(U\propto\delta^{5/2}\)），红线是圆锥（斜率 3），绿线是平底（斜率 2）；右上角的小图标是三种压头的样子。压头越尖，接触面积随压深涨得越快，直线越陡。</figcaption></figure>
 <details><summary>推导</summary><ul>
 <li>弹性能 \(U\)：力对压深积分（从 0 压到 \(\delta\) 做的功）<ul>
 <li>

diff --git a/tools/build_site.py b/tools/build_site.py
@@ -120,7 +120,7 @@ SUBFIGS = {
     "t5_flat_overview.png": 2, "t5_ring_top_overview.png": 2, "t5_ring_inner_overview.png": 2,
     "t5_wave_crest_overview.png": 2, "t5_wave_trough_overview.png": 2, "t5_ring_inner_R6_overview.png": 2,
     "t5_ring_inner_R45_overview.png": 2, "t5_footprint_flat_vs_ring.png": 2, "fig10a_ellipse_vs_circle.png": 2,
-    "fig11a_similarity.png": 2, "e0e1_same_depth_ratio.png": 2,
+    "fig11a_similarity.png": 2, "e0e1_same_depth_ratio.png": 2, "fig09_network_diagram.png": 2,
 }
 AREA_BAND = (0.67, 1.5)   # 按最短边定出的面积在目标面积的这个倍数范围内，就仍按最短边
 
